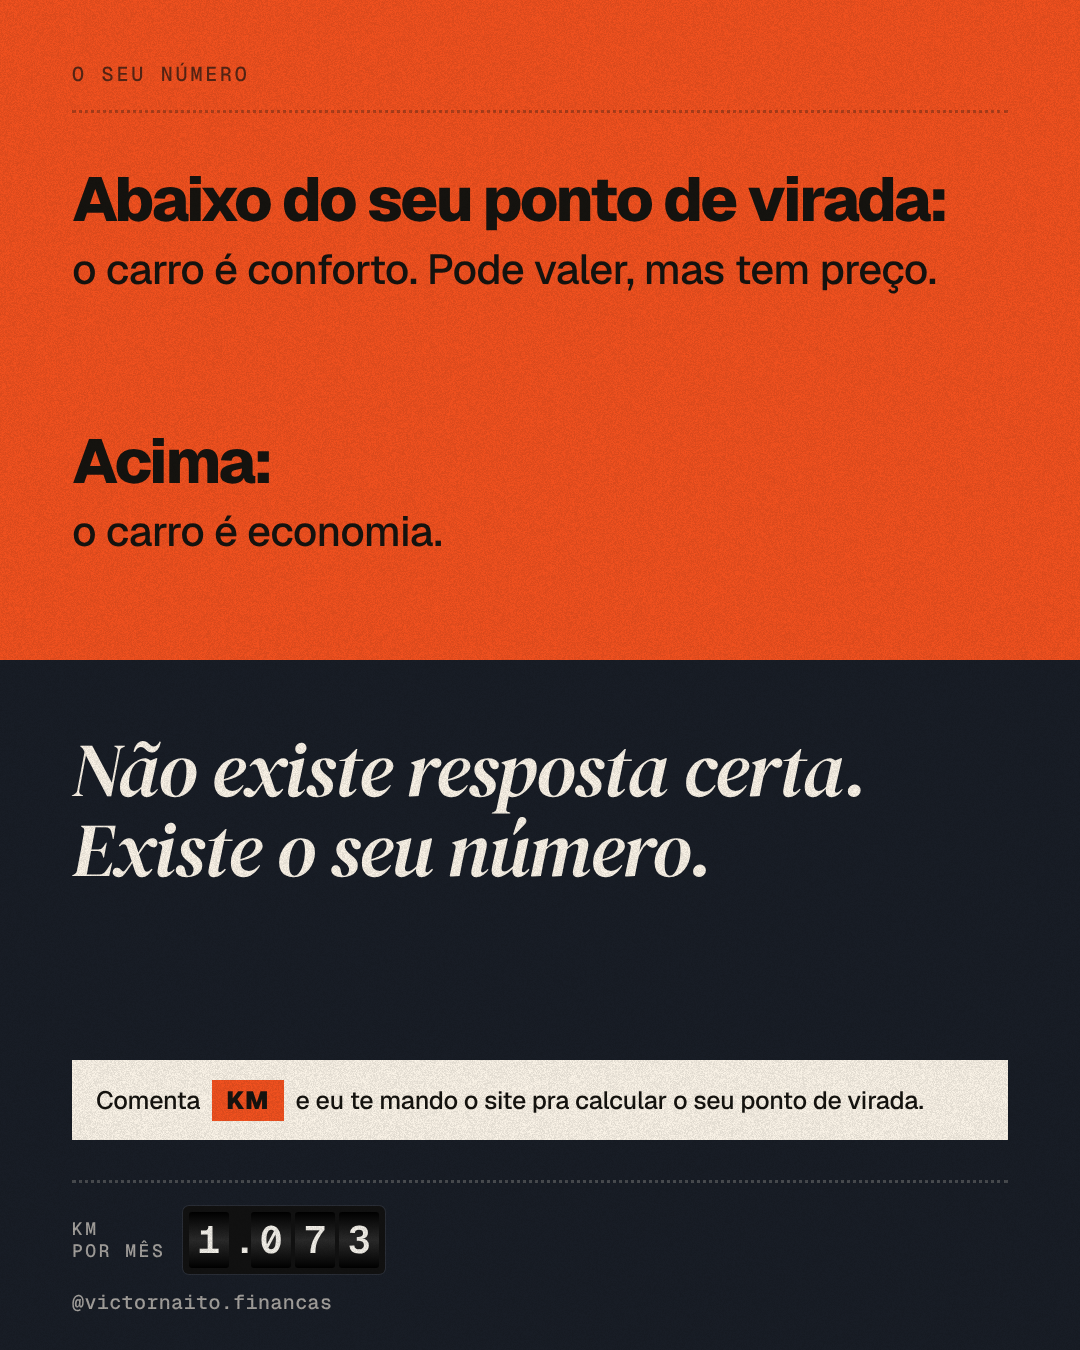
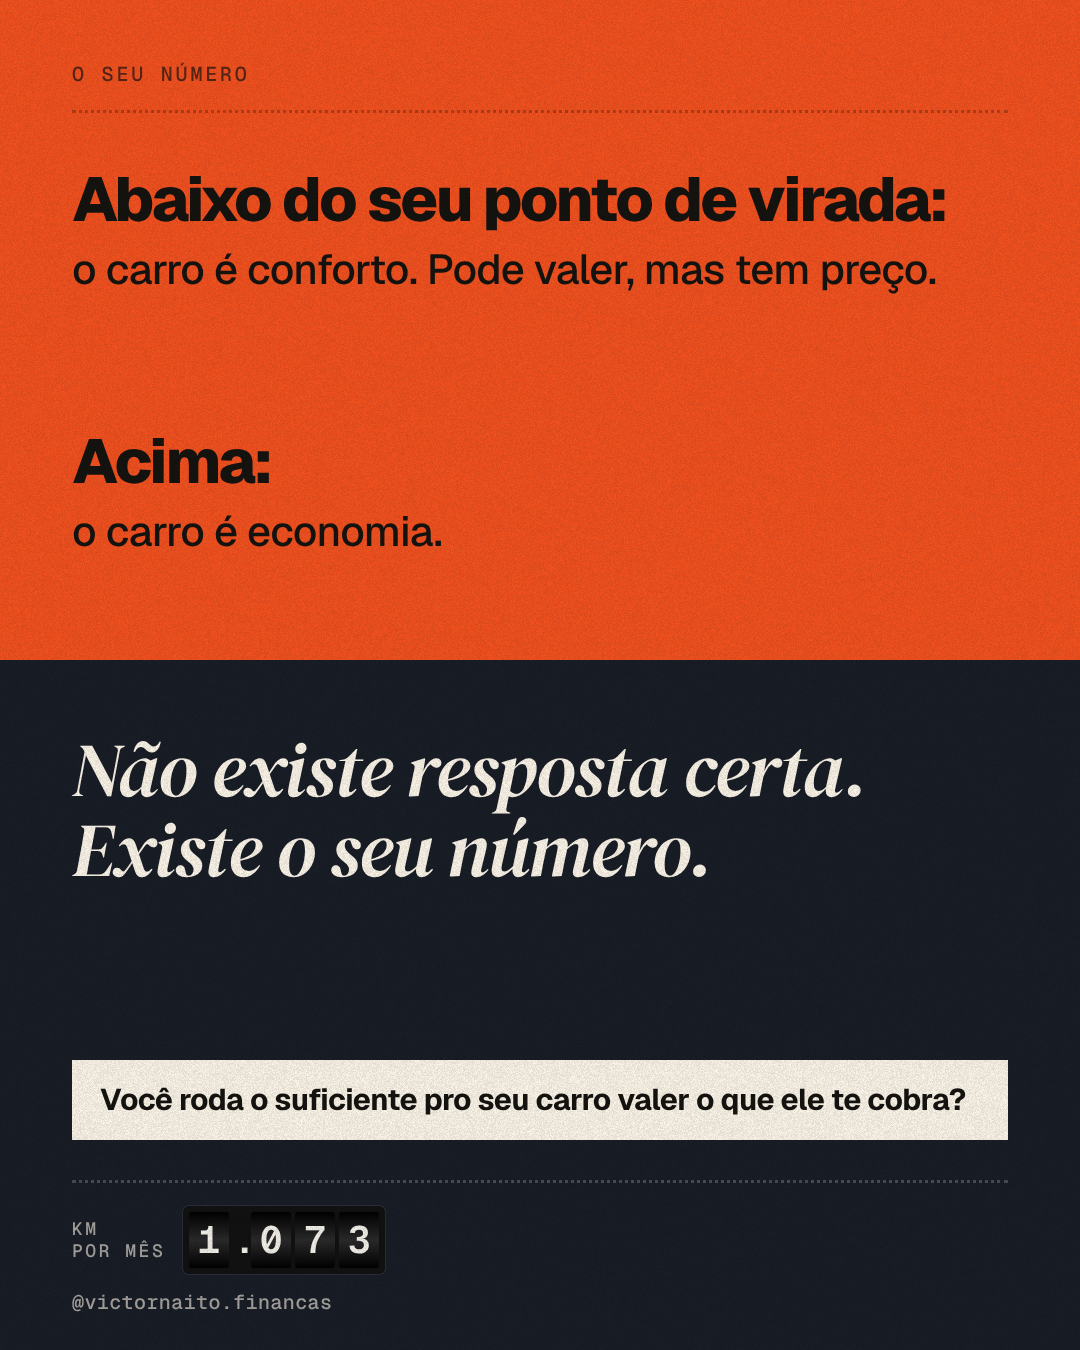
Slide 10: fecho com pergunta reflexiva no lugar do CTA de comentário
Claude-Session: https://claude.ai/code/session_01TotVN7tdVpZgMdjQZDGE1C

Changed region(s): [[0.0917, 0.7778, 0.8861, 0.84]]

diff --git a/carrosseis/uber-x-carro/src/slide-10.html b/carrosseis/uber-x-carro/src/slide-10.html
@@ -24,7 +24,7 @@
 .v .d { font: 500 42px/1.2 'Geist'; letter-spacing: -0.015em; margin-top: 14px; }
 .v1 { top: 168px; } .v2 { top: 430px; }
 .p1 { left: 72px; top: 730px; font-size: 76px; }
-.cta { left: 72px; top: 1060px; width: 936px; height: 80px; background: var(--creme); color: var(--tinta); display: flex; align-items: center; padding: 0 24px; gap: 12px; font: 500 25px/1 'Geist'; letter-spacing: -0.01em; white-space: nowrap; }
+.cta { left: 72px; top: 1060px; width: 936px; height: 80px; background: var(--creme); color: var(--tinta); display: flex; align-items: center; padding: 0 28px; gap: 12px; font: 700 30px/1 'Geist'; letter-spacing: -0.015em; white-space: nowrap; }
 .cta b { font-weight: 900; background: var(--laranja); padding: 8px 14px; letter-spacing: .04em; }
 
 </style>
@@ -39,7 +39,7 @@
   <div class="abs v v1"><div class="h">Abaixo do seu ponto de virada:</div><div class="d">o carro é conforto. Pode valer, mas tem preço.</div></div>
   <div class="abs v v2"><div class="h">Acima:</div><div class="d">o carro é economia.</div></div>
   <div class="abs serifa p1">Não existe resposta certa.<br>Existe o seu número.</div>
-  <div class="abs cta">Comenta <b>KM</b> e eu te mando o site pra calcular o seu ponto de virada.</div>
+  <div class="abs cta">Você roda o suficiente pro seu carro valer o que ele te cobra?</div>
 
   <div class="abs fio" style="top:1180px"></div>
   <div class="abs odometro">

diff --git a/carrosseis/uber-x-carro/src/gerar.py b/carrosseis/uber-x-carro/src/gerar.py
@@ -344,14 +344,14 @@ SLIDES = {
 .v .d { font: 500 42px/1.2 'Geist'; letter-spacing: -0.015em; margin-top: 14px; }
 .v1 { top: 168px; } .v2 { top: 430px; }
 .p1 { left: 72px; top: 730px; font-size: 76px; }
-.cta { left: 72px; top: 1060px; width: 936px; height: 80px; background: var(--creme); color: var(--tinta); display: flex; align-items: center; padding: 0 24px; gap: 12px; font: 500 25px/1 'Geist'; letter-spacing: -0.01em; white-space: nowrap; }
+.cta { left: 72px; top: 1060px; width: 936px; height: 80px; background: var(--creme); color: var(--tinta); display: flex; align-items: center; padding: 0 28px; gap: 12px; font: 700 30px/1 'Geist'; letter-spacing: -0.015em; white-space: nowrap; }
 .cta b { font-weight: 900; background: var(--laranja); padding: 8px 14px; letter-spacing: .04em; }
 """, corpo="""
   <div class="abs metade"></div>
   <div class="abs v v1"><div class="h">Abaixo do seu ponto de virada:</div><div class="d">o carro é conforto. Pode valer, mas tem preço.</div></div>
   <div class="abs v v2"><div class="h">Acima:</div><div class="d">o carro é economia.</div></div>
   <div class="abs serifa p1">Não existe resposta certa.<br>Existe o seu número.</div>
-  <div class="abs cta">Comenta <b>KM</b> e eu te mando o site pra calcular o seu ponto de virada.</div>
+  <div class="abs cta">Você roda o suficiente pro seu carro valer o que ele te cobra?</div>
 """),
 }
 

diff --git a/carrosseis/uber-x-carro/BRIEF.md b/carrosseis/uber-x-carro/BRIEF.md
@@ -199,7 +199,7 @@ PARTE FIXA / MÊS            R$ 1.887
   - **Acima:** o carro é economia.
 - metade de baixo em marinho:
   - serifa: *Não existe resposta certa. Existe o seu número.*
-  - faixa CTA: Comenta **KM** e eu te mando o site pra você calcular o seu ponto de virada.
+  - faixa de fecho (pergunta reflexiva, sem pedir comentário em troca): **Você roda o suficiente pro seu carro valer o que ele te cobra?**
 
 ✂ "Não existe resposta certa. Existe o seu número."
 
@@ -229,7 +229,7 @@ Pra ter ideia:
 
 Não é pra vender o carro amanhã. Filho, estrada e cidade sem app pesam do lado do carro. Estacionamento, multa e tempo livre pesam do lado do app. É pra decidir sabendo o seu número.
 
-Comenta KM que eu te mando o site pra você calcular o seu ponto de virada com o seu carro e o preço do app na sua cidade.
+Você roda o suficiente pro seu carro valer o que ele te cobra?
 
 E manda pra quem diz que Uber é caro.
 
